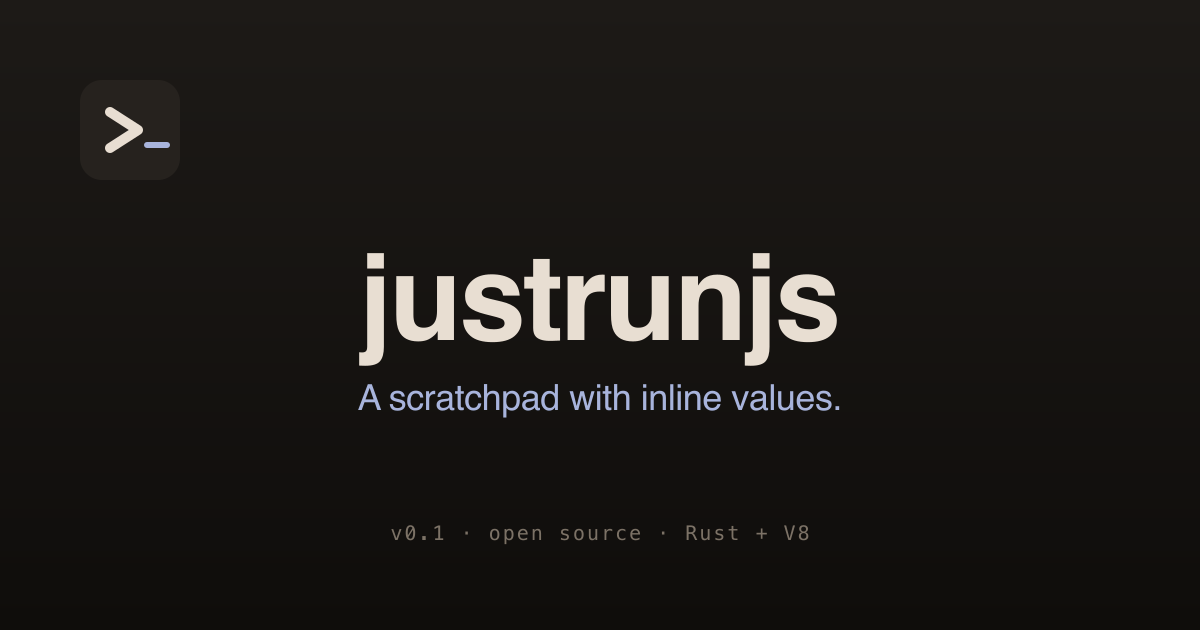
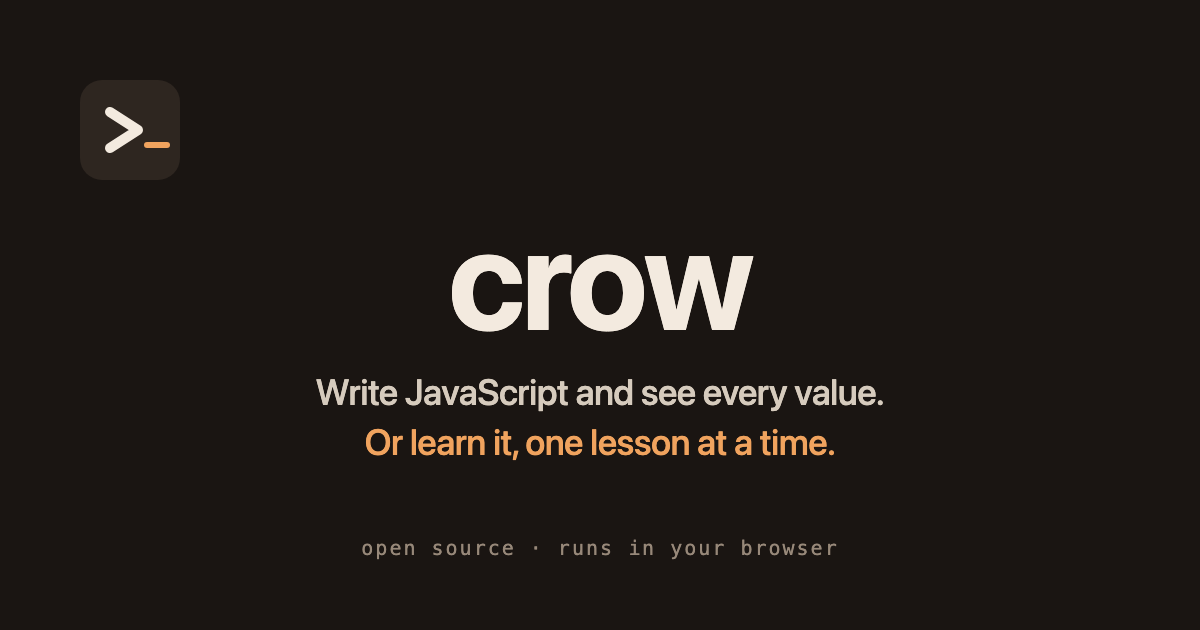
Rename the app to crow
Everything people see now says crow, after a bird that learns by watching
others, the way students learn from a lesson: page titles, the landing
wordmark, the course page, the scratchpad's starter comment, sign-in emails
and pages, the share image, PRODUCT.md and the README.

The share image is redrawn on the Classroom palette with the current pitch
(it still said "Rust + V8" from the desktop app).

Unchanged on purpose, so nothing breaks and no student loses work: the
domain and sign-in sender address, the repository and folders, package
names, and saved-data keys (runjs.*).

Changed region(s): [[0.2467, 0.3921, 0.74, 0.7238], [0.3083, 0.8143, 0.7092, 0.9048], [0.1233, 0.2111, 0.1542, 0.2413]]

diff --git a/marketing/worker/index.ts b/marketing/worker/index.ts
@@ -1,4 +1,4 @@
-// justrunjs API: email sign-in (link or typed code), and per-learner storage for lesson
+// crow API (the justrunjs repo): email sign-in (link or typed code), and per-learner storage for lesson
 // copies, scratchpad experiments and lesson progress. Everything else is the static Astro build.
 // Sign-in follows Fillie's worker (personal-projects/fillie/app/worker/index.js).
 
@@ -69,10 +69,10 @@ async function requestSignIn(req: Request, env: Env, url: URL) {
   try {
     await env.EMAIL.send({
       to: email,
-      from: { email: env.MAIL_FROM, name: "justrunjs" },
-      subject: `Your justrunjs sign-in code: ${code}`,
-      text: `Sign in to justrunjs: ${link}\n\nOr type this code: ${code}\n\nThe link and code work for 15 minutes. If you didn't ask for this, ignore this email.`,
-      html: `<p>Sign in to justrunjs:</p><p><a href="${esc(link)}">Sign in</a></p><p>Or type this code: <strong style="font-size:20px;letter-spacing:2px">${code}</strong></p><p>The link and code work for 15 minutes. If you didn't ask for this, ignore this email.</p>`,
+      from: { email: env.MAIL_FROM, name: "crow" },
+      subject: `Your crow sign-in code: ${code}`,
+      text: `Sign in to crow: ${link}\n\nOr type this code: ${code}\n\nThe link and code work for 15 minutes. If you didn't ask for this, ignore this email.`,
+      html: `<p>Sign in to crow:</p><p><a href="${esc(link)}">Sign in</a></p><p>Or type this code: <strong style="font-size:20px;letter-spacing:2px">${code}</strong></p><p>The link and code work for 15 minutes. If you didn't ask for this, ignore this email.</p>`,
     });
   } catch (e) {
     console.error("send_email failed", (e as Error).message);
@@ -110,7 +110,7 @@ async function verifyLink(req: Request, env: Env, url: URL) {
     const token = url.searchParams.get("token") ?? "";
     if (!/^[\w-]{43}$/.test(token)) return page("Sign in", "<p>This sign-in link is broken. Ask for a new one.</p>");
     const to = url.searchParams.get("to") === "learn" ? "learn" : "web";
-    return page("Sign in", `<h1>Sign in to justrunjs</h1><form method="post" action="/auth/verify"><input type="hidden" name="token" value="${esc(token)}"><input type="hidden" name="to" value="${to}"><button>Sign in</button></form>`);
+    return page("Sign in", `<h1>Sign in to crow</h1><form method="post" action="/auth/verify"><input type="hidden" name="token" value="${esc(token)}"><input type="hidden" name="to" value="${to}"><button>Sign in</button></form>`);
   }
   const form = await req.formData();
   const token = String(form.get("token") ?? "");

diff --git a/marketing/src/lib/classroom-theme.ts b/marketing/src/lib/classroom-theme.ts
@@ -2,7 +2,7 @@ import { BUILT_IN_THEMES, type ThemePlugin } from "@codellyson/justui";
 import { bootTheme } from "@codellyson/justui/boot";
 
 /**
- * justrunjs's own look, the same as the lessons (src/learn/learn.css): a warm dark stage,
+ * crow's own look, the same as the lessons (src/learn/learn.css): a warm dark stage,
  * apricot for the teacher and actions, teal for values and the student's work. The default
  * for the landing page and the scratchpad; justui's themes stay in the picker.
  */

diff --git a/marketing/src/web/main.ts b/marketing/src/web/main.ts
@@ -79,7 +79,7 @@ interface Tab {
   lesson?: { slug: string; originMs: number };
 }
 
-const STARTER = `// justrunjs in the browser — every top-level value shows up next to its line.
+const STARTER = `// crow: every top-level value shows up next to its line.
 
 const greeting: string = "hello";
 greeting.toUpperCase();

diff --git a/marketing/PRODUCT.md b/marketing/PRODUCT.md
@@ -10,14 +10,14 @@ web
 
 Two audiences, served equally:
 
-- **People writing JavaScript who want instant feedback.** They open justrunjs to try an idea in TypeScript or JavaScript and see every top-level value beside its line, or to build a small HTML/CSS/JS page with a live preview. No install, no project setup.
+- **People writing JavaScript who want instant feedback.** They open crow to try an idea in TypeScript or JavaScript and see every top-level value beside its line, or to build a small HTML/CSS/JS page with a live preview. No install, no project setup.
 - **Students learning to code from the owner's recorded lessons.** Levels are mixed: complete beginners, people who know a little, and working developers learning a specific technique. They mostly watch and practise on a laptop, and sometimes use a phone to watch a lesson or review their work.
 
 The owner is also a user: the one person who records and publishes lessons.
 
 ## Product Purpose
 
-justrunjs is a browser scratchpad and playground that doubles as the owner's teaching platform. A lesson is narration plus every code change, replayed in the real editor: students can pause at any moment, edit the code, run their own version, and return to the instructor's exact state without losing their work. Success is a student following a lesson, experimenting, and coming back, and a developer getting an answer to "what does this evaluate to?" in seconds.
+crow is a browser scratchpad and playground that doubles as the owner's teaching platform. A lesson is narration plus every code change, replayed in the real editor: students can pause at any moment, edit the code, run their own version, and return to the instructor's exact state without losing their work. Success is a student following a lesson, experimenting, and coming back, and a developer getting an answer to "what does this evaluate to?" in seconds.
 
 It is built for the owner to teach with, not as a commercial course marketplace.
 
@@ -46,7 +46,7 @@ The lesson is not a video of an editor; it is the editor. Recorded edits replay 
 
 ## Brand Commitments
 
-- Name: **justrunjs** (lowercase). Part of the owner's "just\*" family of apps.
+- Name: **crow** (lowercase), after a bird that learns by watching others, the way students learn from a lesson. Renamed from justrunjs on 2026-10-26; the domain, repository, folders and saved-data keys still say justrunjs/runjs.
 - One look everywhere, the classroom's: personal, immersive and warm. A warm dark stage, the Recursive typeface (casual mono for code), apricot for the teacher and actions, teal for values and the student's work. Lessons (`/learn/`) always use it.
 - Built on the owner's design system `@codellyson/justui` (tokens, boot script, theme picker). The look ships as the "Classroom" theme (`src/lib/classroom-theme.ts`), the default on its dark stage for the landing page and scratchpad; justui's other themes stay available in the picker.
 

diff --git a/README.md b/README.md
@@ -1,4 +1,6 @@
-# justrunjs
+# crow
+
+A JavaScript scratchpad with inline values, and narrated lessons that replay in a live editor. (Formerly justrunjs; the repository keeps that name.)
 
 A browser JavaScript/TypeScript scratchpad with inline values, an HTML/CSS/JS
 playground with live preview, and recorded lessons you can pause and edit.
